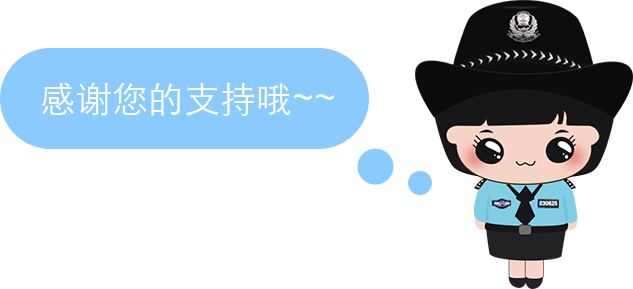
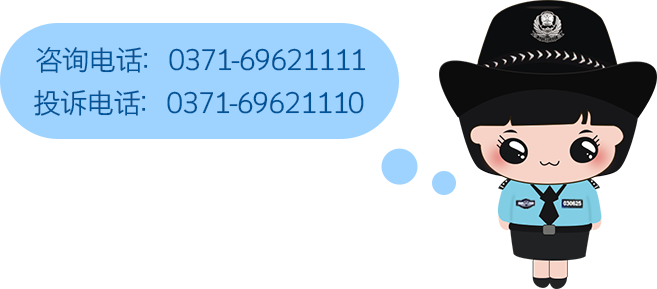
jpyc_0418

diff --git a/jpyc.html b/jpyc.html
@@ -57,12 +57,12 @@
                     <span class="am-navbar-label">警民互动</span>
                 </a>
             </li>
-            <li>
+            <!-- <li>
                 <a href="./me.html" class="tabs" data-page="am-me" id="me">
                     <img src="./assets/i/jpyc_me.png" alt="个人中心" />
                     <span class="am-navbar-label">个人中心</span>
                 </a>
-            </li>
+            </li> -->
         </ul>
     </div>
 
@@ -74,7 +74,7 @@
                 <div class="item">
                     <a href="./jpyc_ywlb.html">
                         <!-- <img src="./assets/i_jpyc/jpyc_slogan1.jpg" class="slogan"> -->
-                        <img  class="slogan">
+                        <img class="slogan">
                     </a>
                     <!-- <span></span>
                     <p>【真挚的笑脸——群众的知心人】</p>
@@ -147,21 +147,35 @@
                         <br />进度查询</div>
                 </a>
             </li>
-
             <li>
+                <a href="pages/jzz.html">
+                    <i class="icon-menu-jzzbljd"></i>
+                    <div class="label">居住证办理
+                        <br />进度查询</div>
+                </a>
+            </li>
+            <!-- ****************18.04.18************** -->
+            <li>
+                <a href="http://zzga.ueit.com.cn/index.php?g=Wap&m=Booking&a=jiaojing&token=anxtyr1465784623">
+                    <i class="icon-menu-jgywyy"></i>
+                    <div class="label">交管业务
+                        <br>预约</div>
+                </a>
+            </li>
+            <!-- <li>
                 <a href="pages/ywzn.html">
                     <i class="icon-menu-ywzn"></i>
                     <div class="label">户政业务
                         <br>指南</div>
                 </a>
-            </li>
-            <li>
+            </li> -->
+            <!-- <li>
                 <a href="http://www.jtgzfw.com/jtgzfw/_pc/wx/jgcs_list.do?type_id=JC04">
                     <i class="icon-menu-cjfbd"></i>
                     <div class="label">车检分布点
                         <br />查询</div>
                 </a>
-            </li>
+            </li> -->
             <li>
                 <a href="http://zzga.ueit.com.cn/index.php?g=Wap&m=Booking&a=churujing&token=anxtyr1465784623">
                     <i class="icon-menu-crjyy"></i>
@@ -169,11 +183,26 @@
                         <br />预约</div>
                 </a>
             </li>
+
             <li>
-                <a href="pages/jzz.html">
-                    <i class="icon-menu-jzzbljd"></i>
-                    <div class="label">居住证办理
-                        <br />进度查询</div>
+                <a href="http://zzga.ueit.com.cn/index.php?g=Wap&m=Booking&a=index&token=anxtyr1465784623">
+                    <i class="icon-menu-hzywyy"></i>
+                    <div class="label">户政预约</div>
+                </a>
+            </li>
+            <!-- ****************18.04.18************** -->
+            <li>
+                <a href="javascript:;" class="btn-mdmzx">
+                    <i class="icon-menu-mdmzx"></i>
+                    <div class="label">面对面
+                        <br />咨询</div>
+                </a>
+            </li>
+            <!-- ****************18.04.18************** -->
+            <li>
+                <a href="http://weixin.yepool.com/wjw/nearPolice.html">
+                    <i class="icon-menu-xqcx"></i>
+                    <div class="label">辖区查询</div>
                 </a>
             </li>
             <li>
@@ -182,19 +211,13 @@
                     <div class="label">同名查询</div>
                 </a>
             </li>
-            <li>
-                <a href="http://zzga.ueit.com.cn/index.php?g=Wap&m=Booking&a=index&token=anxtyr1465784623
-        ">
-                    <i class="icon-menu-hzywyy"></i>
-                    <div class="label">户政预约</div>
-                </a>
-            </li>
-            <li>
+
+            <!-- <li>
                 <a href="http://minedata.cn/application/xpx/zzga/">
                     <i class="icon-menu-lkdt"></i>
                     <div class="label">路况地图</div>
                 </a>
-            </li>
+            </li> -->
             <!-- <li>
       <a href="http://zzga.ueit.com.cn/index.php?g=Wap&m=IndexN&a=index&token=anxtyr1465784623">
         <i class="icon-menu-wph"></i>
@@ -222,6 +245,15 @@
         </ul>
     </div>
     <i class="icon-down"></i>
+    <div class="box-wr">
+        <div class="xcx-box">
+            <i class="close"></i>
+            <div class="code-img">
+                <img src="./assets/i_jpyc/jpyc_mdm.jpg" alt="">
+            </div>
+            <p class="xcx-text">长按识别二维码，进入视频咨询</p>
+        </div>
+    </div>
     <script>
         $(function ($) {
             $(".slogan").prop("src", slogan1)
@@ -246,6 +278,21 @@
                 $(document).scrollTop(h);
                 down.hide()
             }
+
+            /*=============================================
+            =            小程序码的显隐            =
+            =============================================*/
+
+            $("body").on("click", ".btn-mdmzx", function () {
+                $("body").find(".box-wr").show()
+            })
+            // 小程序码隐藏
+            $("body").on("click", ".box-wr .close", function () {
+                $("body").find(".box-wr").hide();
+            });
+
+            /*=====  End of 小程序码的显隐  ======*/
+
 
             /*=============================================
             =            bannerSize            =
@@ -286,7 +333,7 @@
             window.localStorage.setItem("unionId", unionId)
             console.log(unionId);
             //实名认证
-            function identify(unionId,type) {
+            function identify(unionId, type) {
                 $.ajax({
                     type: "POST",
                     url: 'https://app1.henanga.gov.cn/zzga-wx-server/truename/getSignature',

diff --git a/more.html b/more.html
@@ -265,6 +265,12 @@
         </a>
       </li>
       <li>
+        <a href="http://zzga.ueit.com.cn/index.php?g=Wap&m=Booking&a=jiaojing&token=anxtyr1465784623">
+          <i class="icon-menu-jgywyy"></i>
+          <div class="label">交管业务预约</div>
+        </a>
+      </li>
+      <li>
         <a href="http://zzga.ueit.com.cn/index.php?g=Wap&m=IndexN&a=index&token=anxtyr1465784623">
           <i class="icon-menu-wph"></i>
           <div class="label">微排号</div>
@@ -280,6 +286,18 @@
     </ul>
     <div class="menu-tit">其他业务</div>
     <ul class="am-avg-sm-2 grid">
+      <li>
+        <a href="http://weixin.yepool.com/wjw/nearPolice.html">
+          <i class="icon-menu-xqcx"></i>
+          <div class="label">辖区查询</div>
+        </a>
+      </li>
+      <li>
+        <a href="javascript:;" class="btn-mdmzx">
+          <i class="icon-menu-mdmzx"></i>
+          <div class="label">面对面咨询</div>
+        </a>
+      </li>
       <li>
         <a href="../pages/ywzn.html">
           <i class="icon-menu-hzywzn"></i>
@@ -331,6 +349,31 @@
       
     </ul>
   </div>
+  <div class="box-wr">
+      <div class="xcx-box">
+          <i class="close"></i>
+          <div class="code-img">
+              <img src="./i_jpyc/jpyc_mdm.jpg" alt="">
+          </div>
+          <p class="xcx-text">长按识别二维码，进入视频咨询</p>
+      </div>
+  </div>
 </body>
+<script>
+  $(function(){
+     /*=============================================
+            =            小程序码的显隐            =
+            =============================================*/
 
+            $("body").on("click", ".btn-mdmzx", function () {
+                $("body").find(".box-wr").show()
+            })
+            // 小程序码隐藏
+            $("body").on("click", ".box-wr .close", function () {
+                $("body").find(".box-wr").hide();
+            });
+
+            /*=====  End of 小程序码的显隐  ======*/
+  })
+</script>
 </html>

diff --git a/assets/css/app.css b/assets/css/app.css
@@ -182,3 +182,57 @@ html, body {
     color: #fefefe;
   }
 }
+.box-wr {
+  position: fixed;
+  left: 0;
+  top: 0;
+  right: 0;
+  bottom: 0;
+  z-index: 99;
+  display: none;
+}
+.xcx-box {
+  position: absolute;
+  top: 50%;
+  left: 50%;
+  width: 260px;
+  /* height: 260px; */
+  margin: -130px 0 0 -130px;
+  border: 1px solid #024a9f;
+  border-radius: 10px;
+  background: #fff;
+}
+
+.xcx-box .close {
+  position: absolute;
+  top: -10px;
+  right: -10px;
+  width: 28px;
+  height: 28px;
+  border: 1px solid #024a9f;
+  border-radius: 50%;
+  background: #fff url(../i_jpyc/close.png) center no-repeat;
+  /* display: inline-block; */
+  z-index:  9999;
+}
+
+.code-img {
+  text-align: center;
+  margin: 20px auto 10px;
+}
+
+.code-img img {
+  width: 200px;
+  height: 200px;
+}
+
+.xcx-text {
+  font-size: 14px;
+  color: #333;
+  text-align: center;
+  /* padding-bottom: 10px; */
+}
+
+.xcx-text .time {
+  color: #f00;
+}

diff --git a/assets/css/jpyc_feedback.css b/assets/css/jpyc_feedback.css
@@ -27,7 +27,7 @@
     display: flex;
     flex-direction: column;
     align-items: center;
-    margin-top: 25px;
+    margin-top: 15px;
 }
 
 .emoji-wr>i {
@@ -140,13 +140,13 @@
     background-color: rgba(0, 0, 0, .6);
 }
 .cnt-bottom {
-    margin-top: 25px;
+    margin-top: 40px;
     /* padding-left: 15px; */
     /* padding-right: 15px; */
-    margin-bottom: 25px;
+    /* margin-bottom: 25px; */
     position: relative;
     /* text-align:  right; */
-    padding-bottom: 40px;
+    /* padding-bottom: 40px; */
 }
 .callme {
     /* position: absolute; */
@@ -158,5 +158,5 @@
     color: #1387e2;
 }
 .img-bpadding {
-    width: 90%;
+    width: 100%;
 }

diff --git a/pages/jpyc_feedback.html b/pages/jpyc_feedback.html
@@ -63,14 +63,14 @@
             <button class="btn-normal" id="submitOpinion">提交</button>
         </div>
         <div class="cnt-bottom">
-            <div class="callme">
+            <!-- <div class="callme">
                 <div>咨询电话：
                     <a href="tel:0371-69621111">0371-69621111</a>
                 </div>
                 <div>投诉电话：
                     <a href="tel:0371-69621110">0371-69621110</a>
                 </div>
-            </div>
+            </div> -->
             <img src="i_jpyc/jpyc_feedback.png" class="img-bpadding" alt="感谢您的支持">
         </div>
     </div>

diff --git a/assets/css/index.css b/assets/css/index.css
@@ -214,6 +214,18 @@ i.icon-menu-jzzbljd {
     background: url(../i/index_jzzbljd.png) no-repeat center center;
     background-size: contain;
 }
+i.icon-menu-jgywyy {
+    background: url(../i/index_jgywyy.png) no-repeat center center;
+    background-size: contain;
+}
+i.icon-menu-xqcx {
+    background: url(../i/index_xqcx.png) no-repeat center center;
+    background-size: contain;
+}
+i.icon-menu-mdmzx {
+    background: url(../i/index_mdmzx.png) no-repeat center center;
+    background-size: contain;
+}
 .icon-down{
     display: inline-block;
     background: url(../i/down.png) no-repeat center center;

diff --git a/assets/css/more.css b/assets/css/more.css
@@ -157,6 +157,18 @@ i.icon-menu-shce {
   background: url(../i/more_shce.png) no-repeat center center;
   background-size: contain;
 }
+i.icon-menu-jgywyy {
+  background: url(../i/more_jgywyy.png) no-repeat center center;
+  background-size: contain;
+}
+i.icon-menu-xqcx {
+  background: url(../i/more_xqcx.png) no-repeat center center;
+  background-size: contain;
+}
+i.icon-menu-mdmzx {
+  background: url(../i/more_mdmzx.png) no-repeat center center;
+  background-size: contain;
+}
 /* slogan wrapper ( invalid now ) */
 .pop-wrap {
   display: flex;
